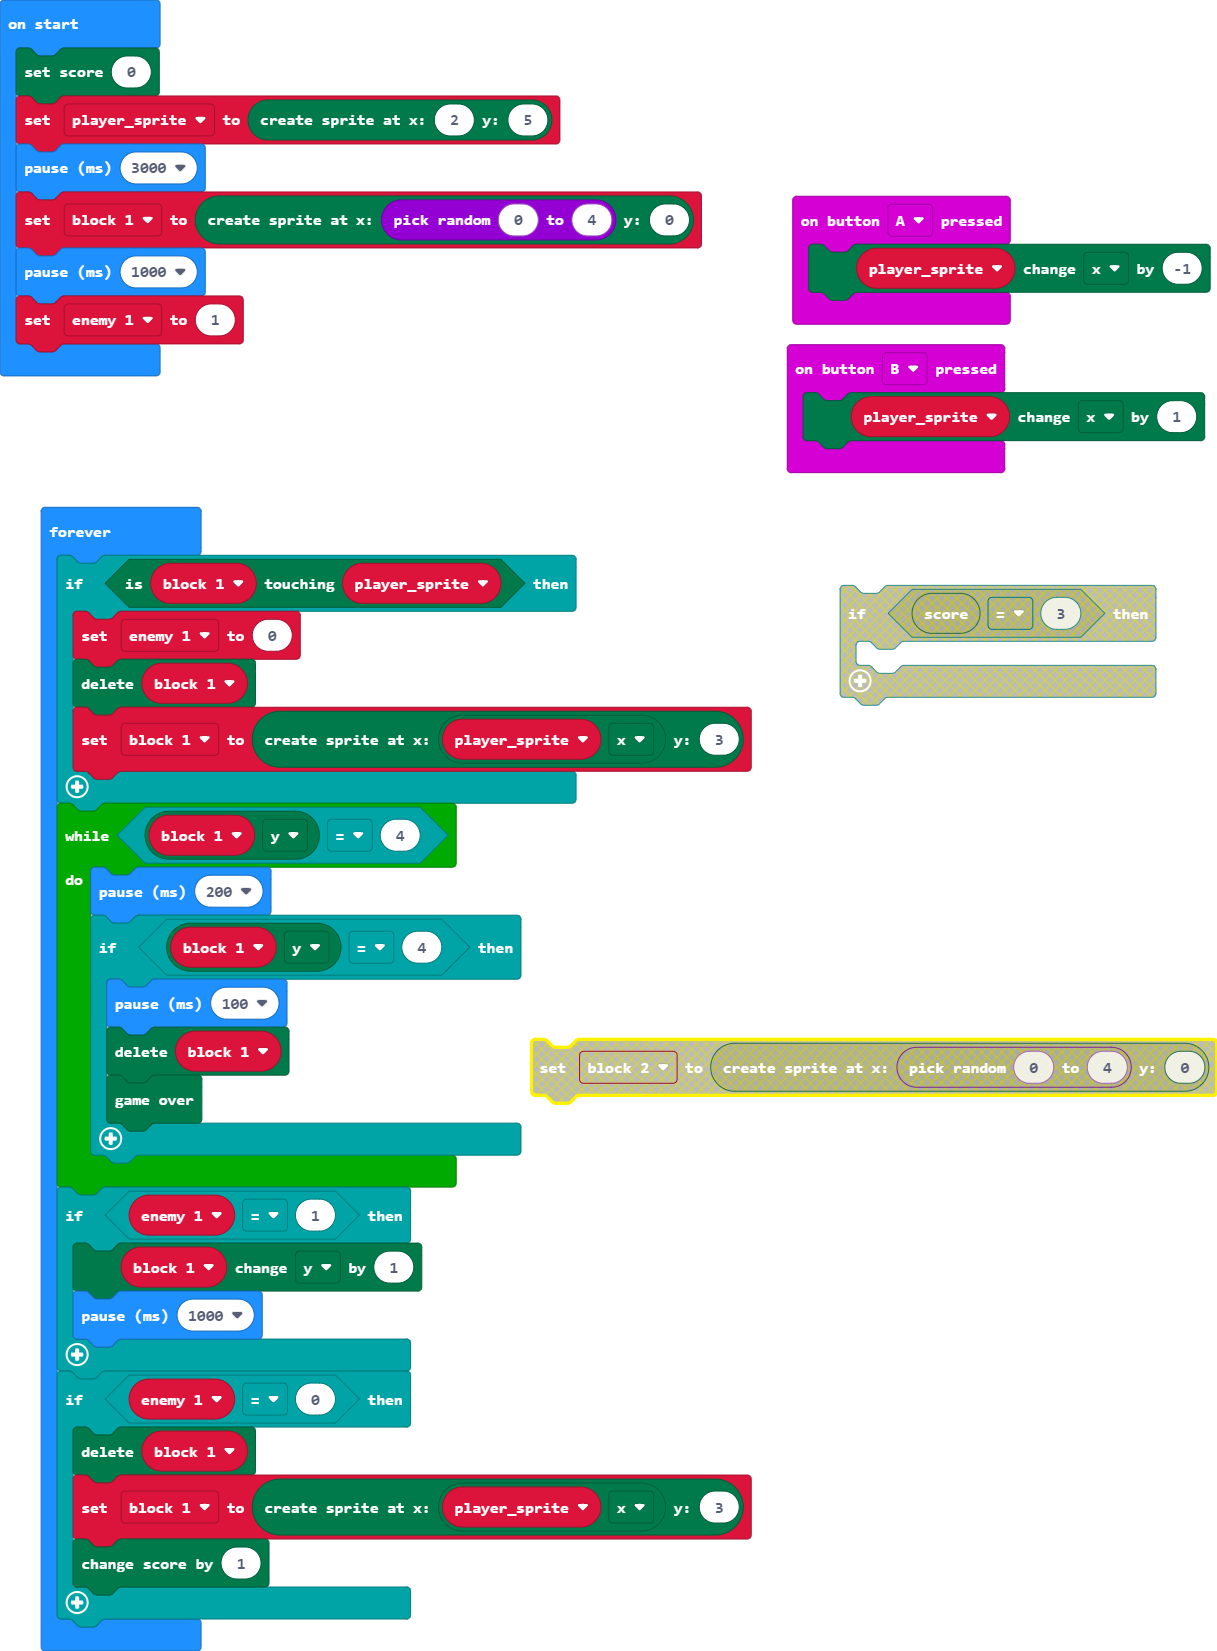
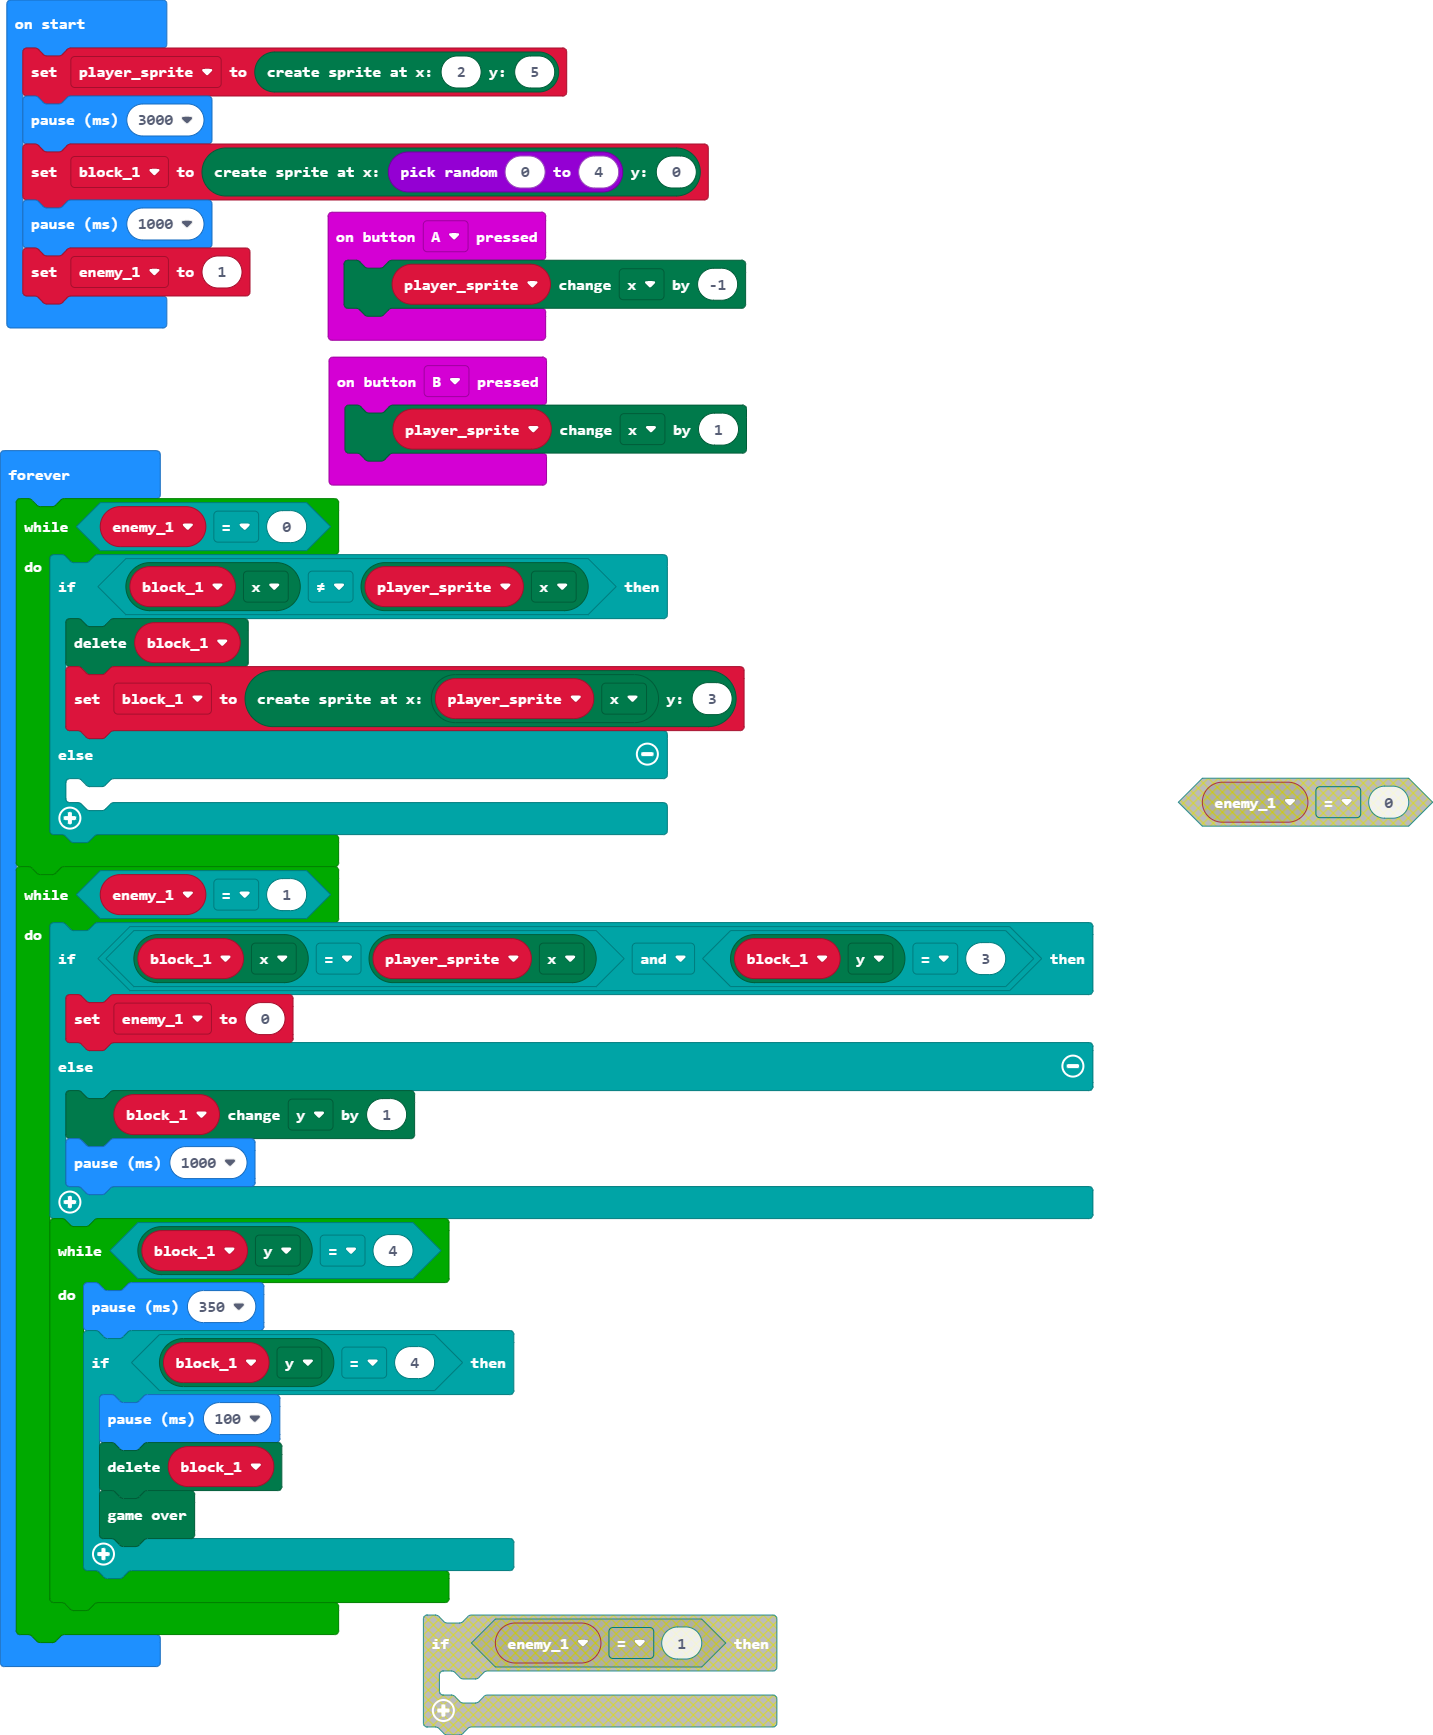
Update pxt.json, main.blocks, main.ts

diff --git a/main.ts b/main.ts
@@ -5,33 +5,34 @@ input.onButtonPressed(Button.B, function () {
     player_sprite.change(LedSpriteProperty.X, 1)
 })
 let player_sprite: game.LedSprite = null
-game.setScore(0)
 player_sprite = game.createSprite(2, 5)
 basic.pause(3000)
 let block_1 = game.createSprite(randint(0, 4), 0)
 basic.pause(1000)
 let enemy_1 = 1
 basic.forever(function () {
-    if (block_1.isTouching(player_sprite)) {
-        enemy_1 = 0
-        block_1.delete()
-        block_1 = game.createSprite(player_sprite.get(LedSpriteProperty.X), 3)
-    }
-    while (block_1.get(LedSpriteProperty.Y) == 4) {
-        basic.pause(200)
-        if (block_1.get(LedSpriteProperty.Y) == 4) {
-            basic.pause(100)
+    while (enemy_1 == 0) {
+        if (block_1.get(LedSpriteProperty.X) != player_sprite.get(LedSpriteProperty.X)) {
             block_1.delete()
-            game.gameOver()
+            block_1 = game.createSprite(player_sprite.get(LedSpriteProperty.X), 3)
+        } else {
+        	
         }
     }
-    if (enemy_1 == 1) {
-        block_1.change(LedSpriteProperty.Y, 1)
-        basic.pause(1000)
-    }
-    if (enemy_1 == 0) {
-        block_1.delete()
-        block_1 = game.createSprite(player_sprite.get(LedSpriteProperty.X), 3)
-        game.addScore(1)
+    while (enemy_1 == 1) {
+        if (block_1.get(LedSpriteProperty.X) == player_sprite.get(LedSpriteProperty.X) && block_1.get(LedSpriteProperty.Y) == 3) {
+            enemy_1 = 0
+        } else {
+            block_1.change(LedSpriteProperty.Y, 1)
+            basic.pause(1000)
+        }
+        while (block_1.get(LedSpriteProperty.Y) == 4) {
+            basic.pause(350)
+            if (block_1.get(LedSpriteProperty.Y) == 4) {
+                basic.pause(100)
+                block_1.delete()
+                game.gameOver()
+            }
+        }
     }
 })
